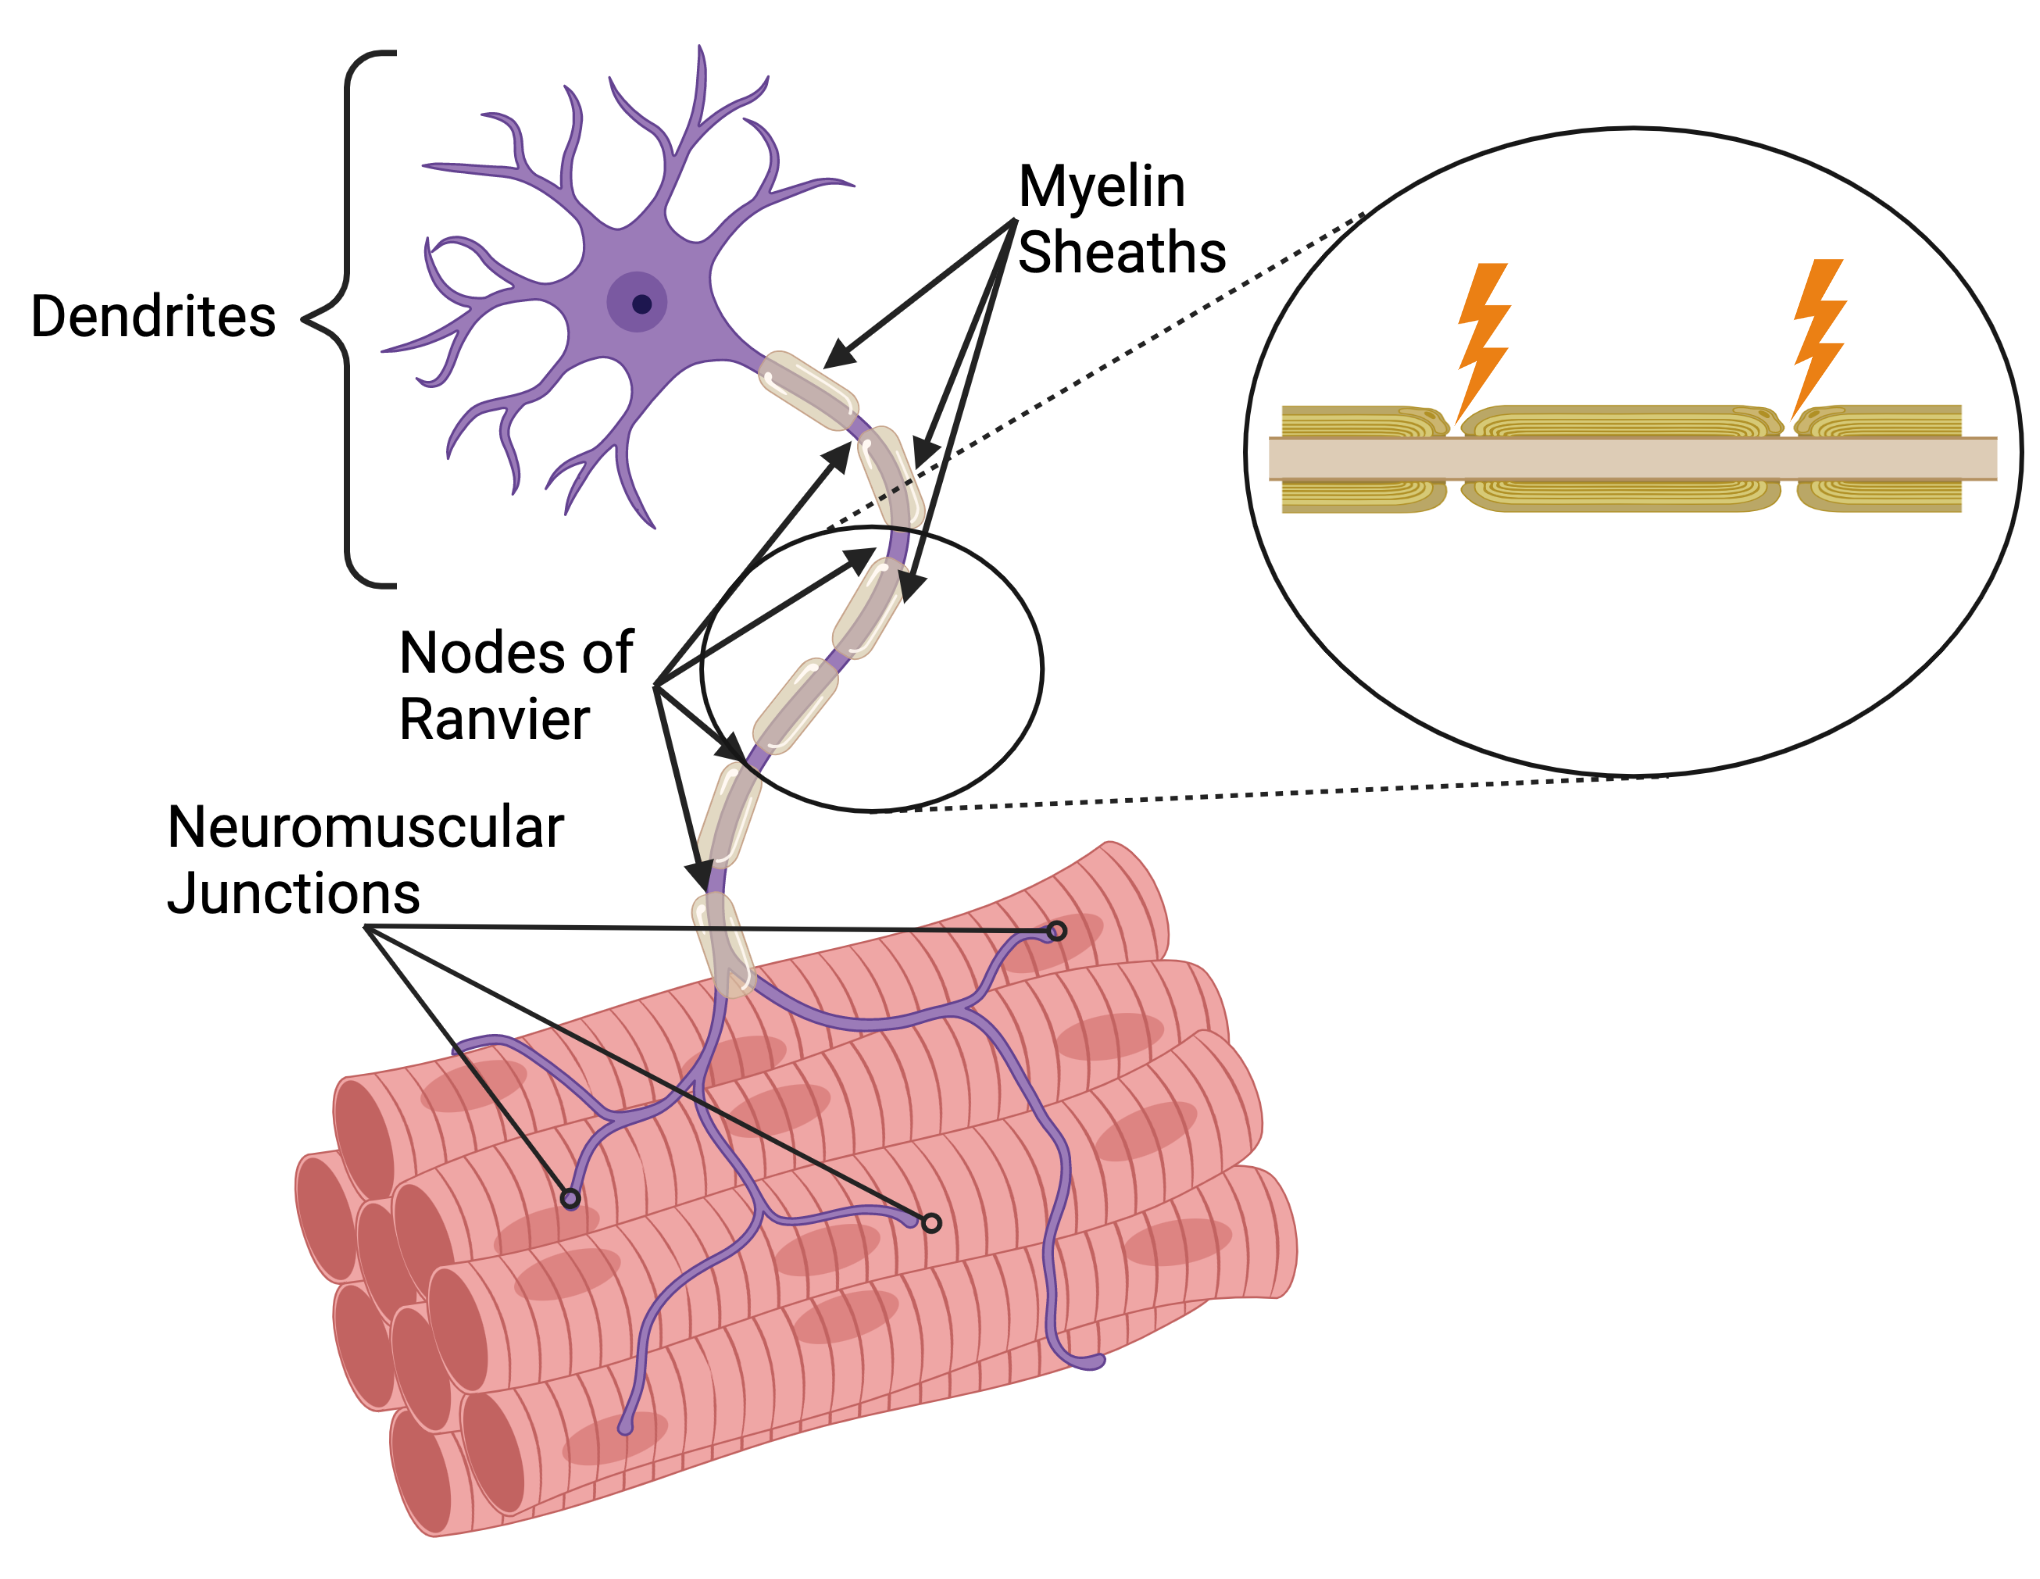
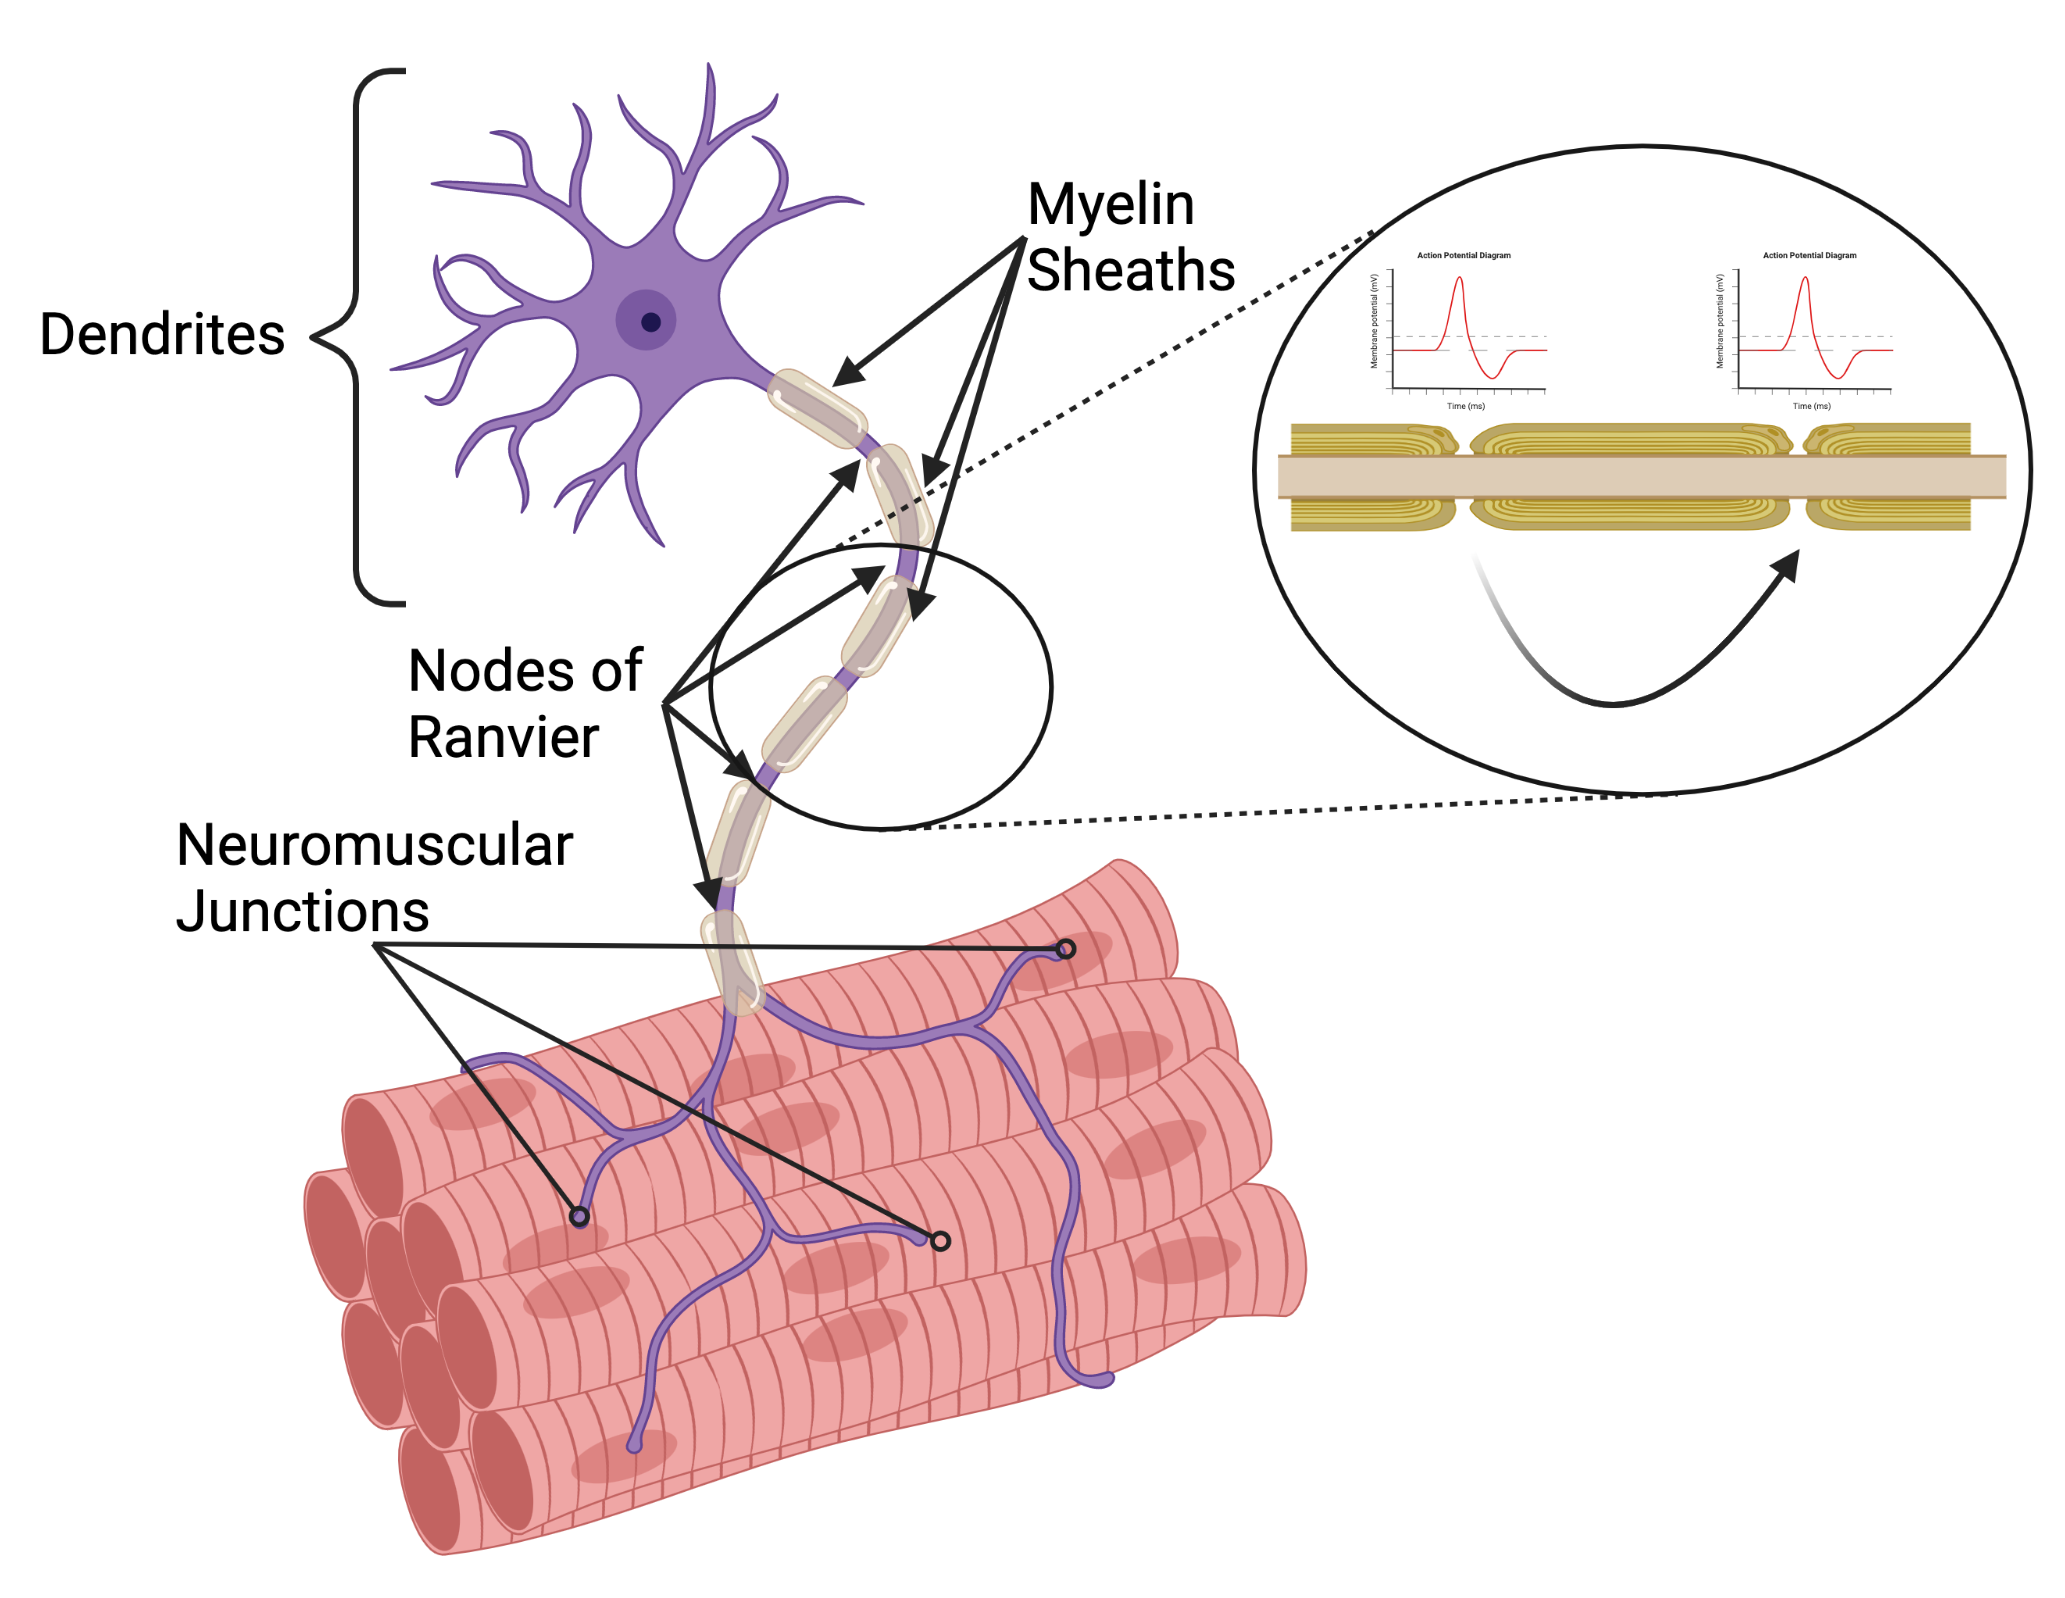
Finished section one figures for excitation chapter

diff --git a/chapter/excitation.tex b/chapter/excitation.tex
@@ -1,7 +1,7 @@
 % !TEX root = ../notes_template.tex
 \chapter{Muscle Excitation}\label{chp:excitation}
 
-% Find and replace
+% Last step - Find and replace
 % Na with $Na^+$
 % K with $K^+$
 % Cl with $Cl^-$
@@ -35,9 +35,8 @@ Understanding excitable membranes creates Clinical Physiology Connections opport
    \item Demonstrate the ability to apply basic physiology concepts such as the cell membrane, mass balance, and flow gradients to the analysis of patient/client problems related to the generation of muscle excitation, the effectiveness of the neuroendocrine system and pharmaceuticals.
 \end{enumerate}
 
-\section{Muscle Fiber Excitation}
+\section{Muscle Fiber Excitation} % Draft of this section as of June 3, 2022 - keep as is for now
 \paragraph{Excitation}
-% THis section needs work!!!
 Muscle fiber excitation is the signal that initiates crossbridge activation and results in a twitch. Excitation is a state of the membrane. Based on the concept of excitation a muscle fiber exists in one of two states, resting or excitation. Excitation occurs when a membrane depolarizes and the process of depolarizing is called an action potential (AP). The resting state of the membrane has is polarized and is called the resting membrane potential. Cellular membranes that can undergo excitation is an excitable membrane, and this includes nerve and muscle cell membranes. 
 \paragraph{Excitation as Signal Transduction}
 Excitation is a mechanism for signal transduction (sending and receiving signals). One example is when membrane excitation results in an action in the cell that influences cellular processes, which includes processes such as exocytosis,\footnotemark\footnotetext{Exocytosis is a form of active transport and bulk transport in which a cell transports molecules (e.g., neurotransmitters and proteins) out of the cell). From \url{https://en.wikipedia.org/wiki/Ligand}}. A second example is when a membrane is excited through binding of a ligand\footnotemark\footnotetext{A ligand is any molecule or atom which binds reversibly to a protein. A ligand can be an individual atom or ion. It can also be a larger and more complex molecule made from many atoms. A ligand can be natural, as an organic or inorganic molecule. A ligand can also be made synthetically, in the laboratory. From \url{https://biologydictionary.net/ligand/}} to a receptor on its surface which can then excite the surface, direct another signal into the cell (or both). 
@@ -46,8 +45,6 @@ Excitation is a mechanism for signal transduction (sending and receiving signals
 \paragraph{}
 
 Skeletal muscle fiber excitation starts with excitation of an $\alpha$-motor neuron (Step 1 in Figure \ref{fig:excitation_overview}) which crosses the neuromuscular junction (NMJ) and excites the motor end plate (Step 2 in Figure \ref{fig:excitation_overview}). Excitation of the motor end plate causes excitation of the sarcolemma, which causes excitation of the transverse tubule system (T-tubules). Excitation of T-tubules cause excitation of the sarcoplasmic reticulum (SR), which causes the release of calcium into the muscle fiber and the activation of available crossbridges (Step 3 in Figure \ref{fig:excitation_overview}) This last step (Step 3 in Figure \ref{fig:excitation_overview}). Excitation of the SR and release of Ca is referred to as Excitation-Activation Coupling (or Excitation-Contraction Coupling). A single excitation results in a twitch.
-
-% Change this image to include an AP graphic instead of a lightening bolt! 
 
 \begin{figure}[!ht]
     \centering
@@ -68,9 +65,7 @@ Excitation of an $\alpha$-motor neuron is regulated by the central nervous syste
 
 \subsection{Step 2 - Neuromuscular Junction - Motor End Plate - Sarcolemma Excitation}
 
-Membrane excitation at the axon terminal releases the neurotransmitter acetylcholine (ACh) due to the action of voltage gated Ca channels. Interestingly, these channels are inhibited by high magnesium (Mg) concentrations. ACh crosses the NMJ synapse (Figure \ref{fig:NMJ} and excites the motor end plate by binding to receptors and opening ligand gated ion channels. For tight regulation of muscle activation at the NMJ, ACh is quickly broken down by cholinesterase (an enzyme synthesized by the muscle fiber that hydrolyzes ACh) and free choline molecules are transported into the axon terminal (endocytosis) to be resynthesized. However, when high concentrations of ACh accumulate at the NMJ there are two processes that can result in more rapid excitation of the motor end plate. Temporal summation refers to repeated stimulation of one receptor by ACh; and spatial summation refers to stimulation of a larger number of motor end plate receptor. Frequency summation is limited by the amount of ACh, which is influenced by the release of ACh from the axon terminal and the breakdown of ACh in the NMJ. Spatial summation is also limited by the amount of ACh, but it is also limited by the number of receptors on the motor end plate.
-
-%Need to create NMJ - sarcolemma figure - more detail than but based on Step 2 in overview figure
+Membrane excitation at the axon terminal releases the neurotransmitter acetylcholine (ACh) due to the action of voltage gated Ca channels. Interestingly, these channels are inhibited by high magnesium (Mg) concentrations. ACh crosses the NMJ synapse (Figure \ref{fig:NMJ} and excites the motor end plate by binding to receptors and opening ligand gated Na ion channels. For tight regulation of muscle activation at the NMJ, ACh is quickly broken down by cholinesterase (an enzyme synthesized by the muscle fiber that hydrolyzes ACh) and free choline molecules are transported into the axon terminal (endocytosis) to be resynthesized. However, when high concentrations of ACh accumulate at the NMJ there are two processes that can result in more rapid excitation of the motor end plate. Temporal summation refers to repeated stimulation of one receptor by ACh; and spatial summation refers to stimulation of a larger number of motor end plate receptor. Frequency summation is limited by the amount of ACh, which is influenced by the release of ACh from the axon terminal and the breakdown of ACh in the NMJ. Spatial summation is also limited by the amount of ACh, but it is also limited by the number of receptors on the motor end plate.
 
 \begin{figure}[!ht]
     \centering
@@ -83,10 +78,22 @@ Excitation of the motor end plate spreads to the sarcolemma due to the opening o
 
 % Import the T-Tubule - SR triad image - CC from wikipedia
 
+\begin{figure}[!ht]
+    \centering
+    \includegraphics[width=1\linewidth]{./figure/T-tubule.jpg}
+    \caption{T-Tubule Encircling a Myofibril \& Forming a Triad with Sarcoplasmic Reticulum  \footnotesize{(OpenStax, CC BY 4.0, \href{https://creativecommons.org/licenses/by/4.0}{via Wikimedia Commons})}}
+    \label{fig:T-tubule}
+\end{figure}
+
 \subsection{Step 3 - Excitation - Activation Coupling (EAC)}
 Excitation of the T-tubules excites the sarcoplasmic reticulum (SR). There are unique junctions between T tubules and the SR mediated by Ca channels. One acts as voltage sensors in the T tubules, and a second acts as Ca release channels in the SR.\footnotemark{}\footnotetext{The position of these two calcium channels differ between skeletal and cardiac muscle, which correlates with the functional differences in the control of contraction between these two types of muscle.} The implications of this unique T-tubule - SR junction is that excitation of the T-tubule quickly results in a combined excitation of the SR along with the release of Ca into the sarcoplasm\footnotemark\footnotetext{Sarcoplasm is the muscle fiber equivalent of the cytoplasm, the intracellular region that is in the cell but outside of any organelles (such as the SR, nucleus, mitochondria).} in close proximity of troponin binding sites for crossbridge activation (Figure \ref{fig:SR}).
 
-% Figure of the sarcoplasmic reticulum - expand on Step 3?
+\begin{figure}[!ht]
+    \centering
+    \includegraphics[width=1\linewidth]{./figure/SR.png}
+    \caption{Sarcoplasmic Reticulum as the site of Excitation-Activation Coupling \footnotesize{Created with BioRender.com}}
+    \label{fig:SR}
+\end{figure}
 
 \paragraph{Excitation \& EAC Latency}
 
@@ -95,7 +102,7 @@ Figure \ref{fig:eac-latency} represents each major phase of excitation and EAC f
     \centering
     \includegraphics[width=1\linewidth]{./figure/eac-latency.png}
     \caption{EAC Latency \footnotesize{(Wikimedia Commons, CC BY 4.0, \href{https://commons.wikimedia.org/wiki/File:The_latent_period_between_the_muscle_action_potential_and_contraction.png}{EAC-Latency})}}
-    \label{fig:Motoneuron}
+    \label{fig:eac-latency}
 \end{figure}
 
 \subsubsection{Twitch to Tetany}
@@ -107,7 +114,12 @@ Each excitation activates enough crossbridges to produce a twitch. A twitch is t
 \paragraph{Tetany}
 Repeated excitation results in repeated activation and therefore continued crossbridge activation and repeated twitches (Figure \ref{fig:tetany}). Successive twitches create tension summation and is called tetany. When the force of active tension is measured, such as during a muscle test, it is the result of many muscle fibers being in tetany. The use of twitch frequency to create tetany and regulate active tension is detailed in Chapter \ref{chp:regulation}. 
 
-%Add a figure of twitches becoming tetany
+\begin{figure}[!ht]
+    \centering
+    \includegraphics[width=1\linewidth]{./figure/tetany.png}
+    \caption{EAC Latency \footnotesize{Modified with BioRender.com from \href{https://commons.wikimedia.org/wiki/File:Twitch_vs_unfused_tetanus_vs_fused_tetanus.png}{Wikimedia Commons, CC BY 4.0})}}
+    \label{fig:tetany}
+\end{figure}
 
 \subsubsection{Removal of Ca from Sarcoplasm}
 Removal of Ca from the sarcoplasm requires active transport with Ca ATPase. This pump is dependent on Mg and moves 2 Ca into the SR while moving on H out at the cost of 1 ATP. Sarcoplasm levels of Ca can quickly return to resting levels which is necessary for rapid muscle relaxation and therefore muscle tension regulation and coordination. Situations that result in a delay in the removal of Ca from the sarcoplasm can delay muscle relaxation producing extra twitches or spasms (involuntary tetany). Since Ca ATPase is dependent on Mg, a deficiency in Mg can create such a situation.
@@ -120,9 +132,7 @@ Excitation occurs quickly because the resting state includes potential energy fo
 The RMP also enables rapid return to the resting state with potential energy. The movement of K and Cl ions with their concentration gradient can quickly end excitation enabling the membrane to be quickly returned to RMP for another excitation. However the long term stability of the RMP relies on processes that depend on ion pumps to sustain concentration gradients for a lifetime.\footnotemark\footnotetext{Brain and heart death are situations where the cells of the brain and heart no longer return to the resting state, they no longer repolarize to the RMP, and therefore they can no longer undergo excitation.}
 A deeper understanding of excitation and return to RMP, and clinical connections, requires a molecular and cellular understanding of excitable membranes.
 
-%NEed to add Ca pumping back into the SR
-
-% Stopped here - but need to add figures above.
+% Stopped here 
 
 \section{Excitable Membranes}
 
